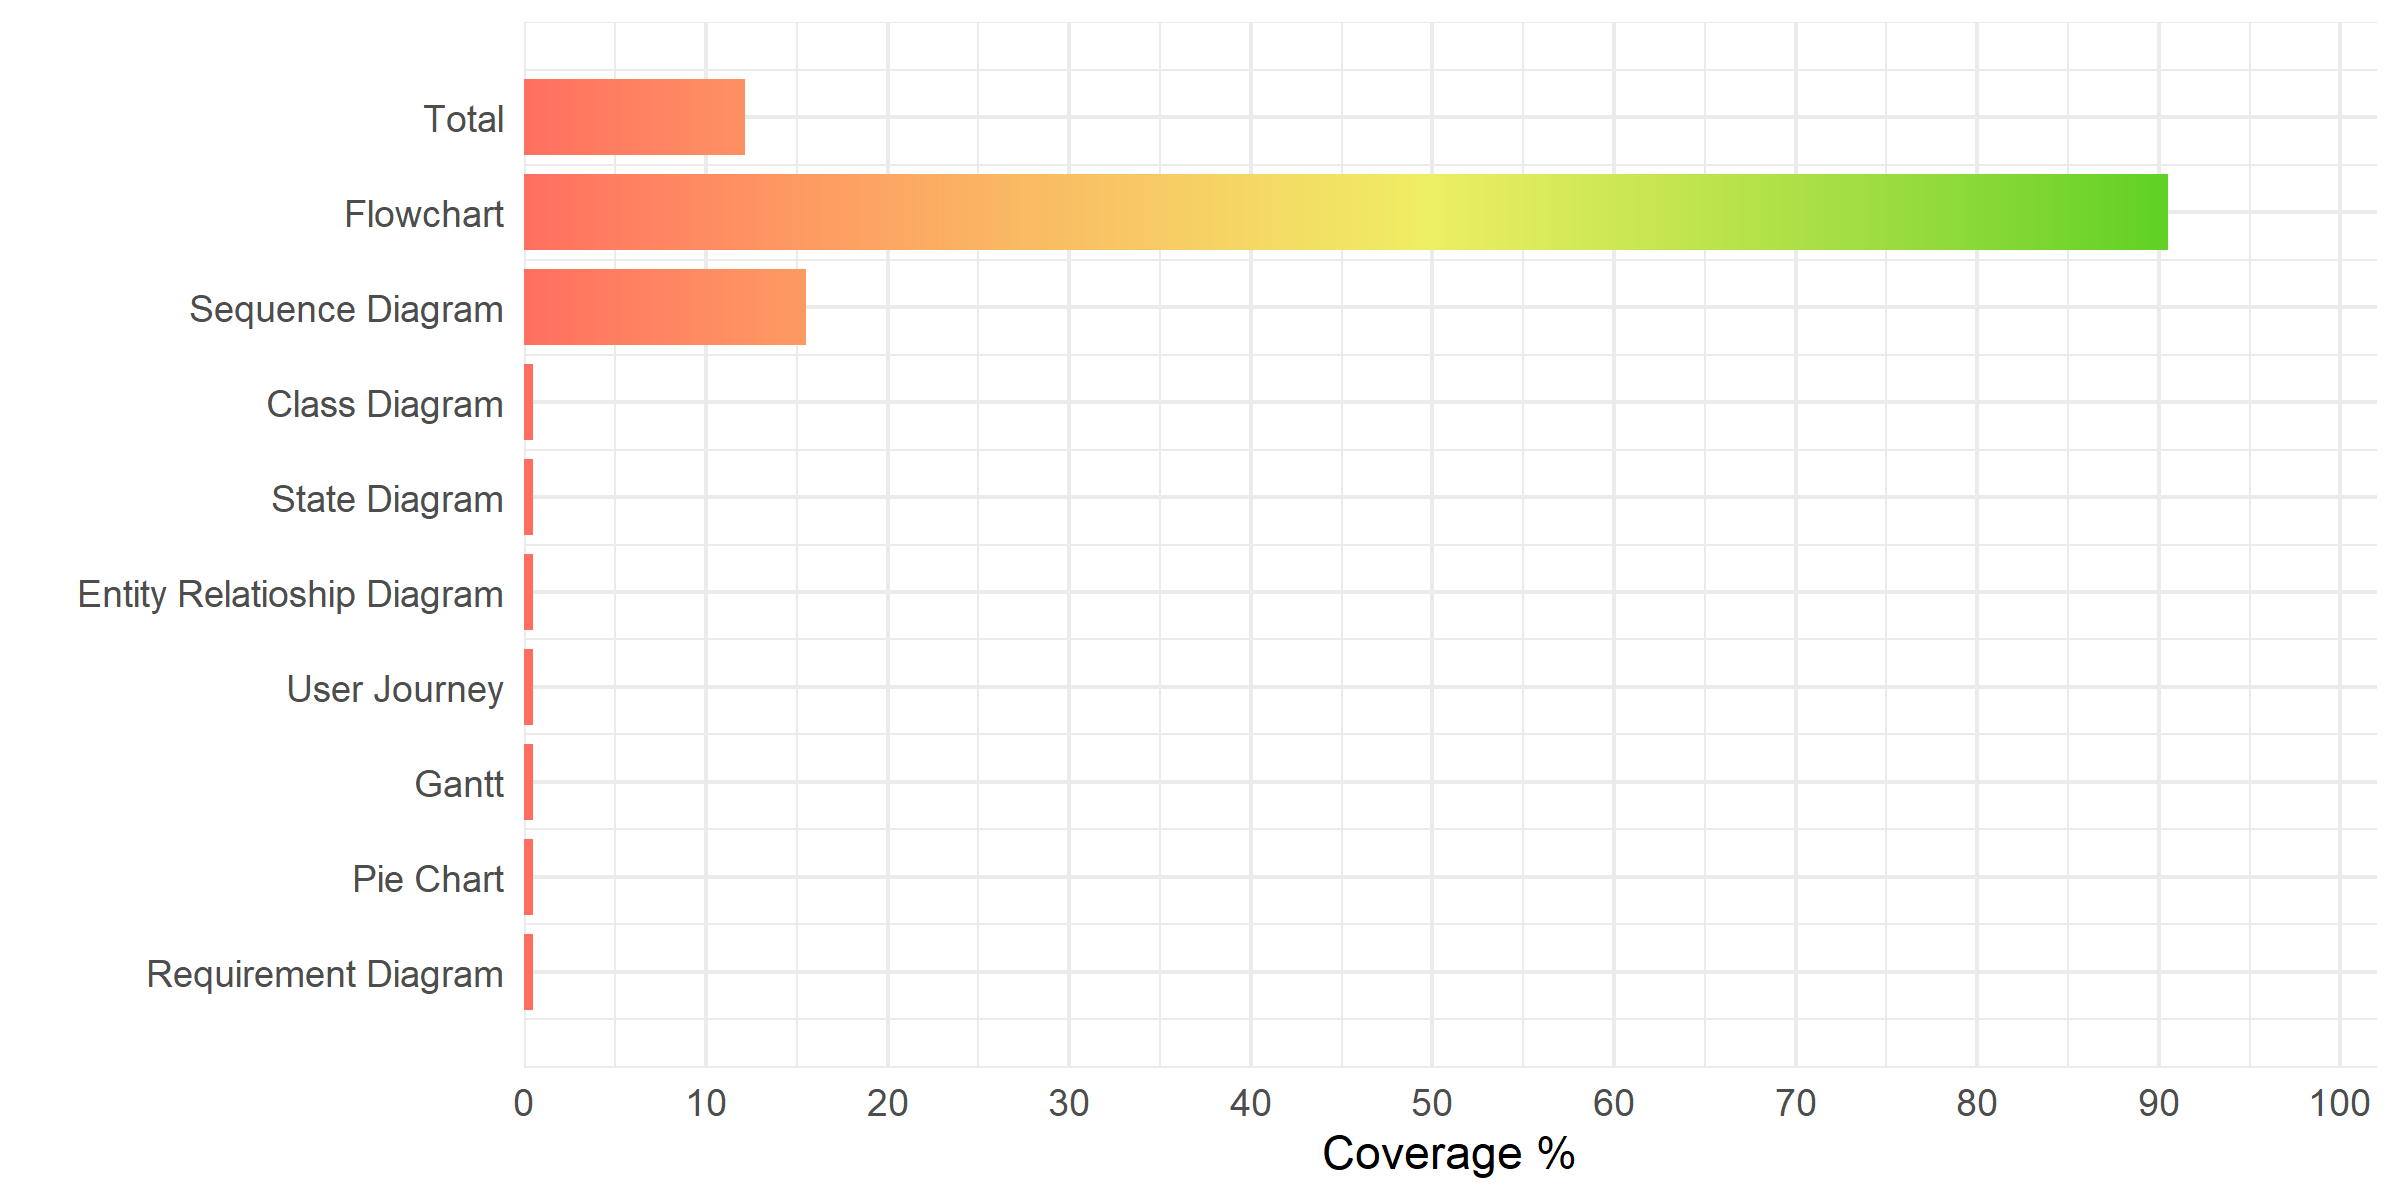
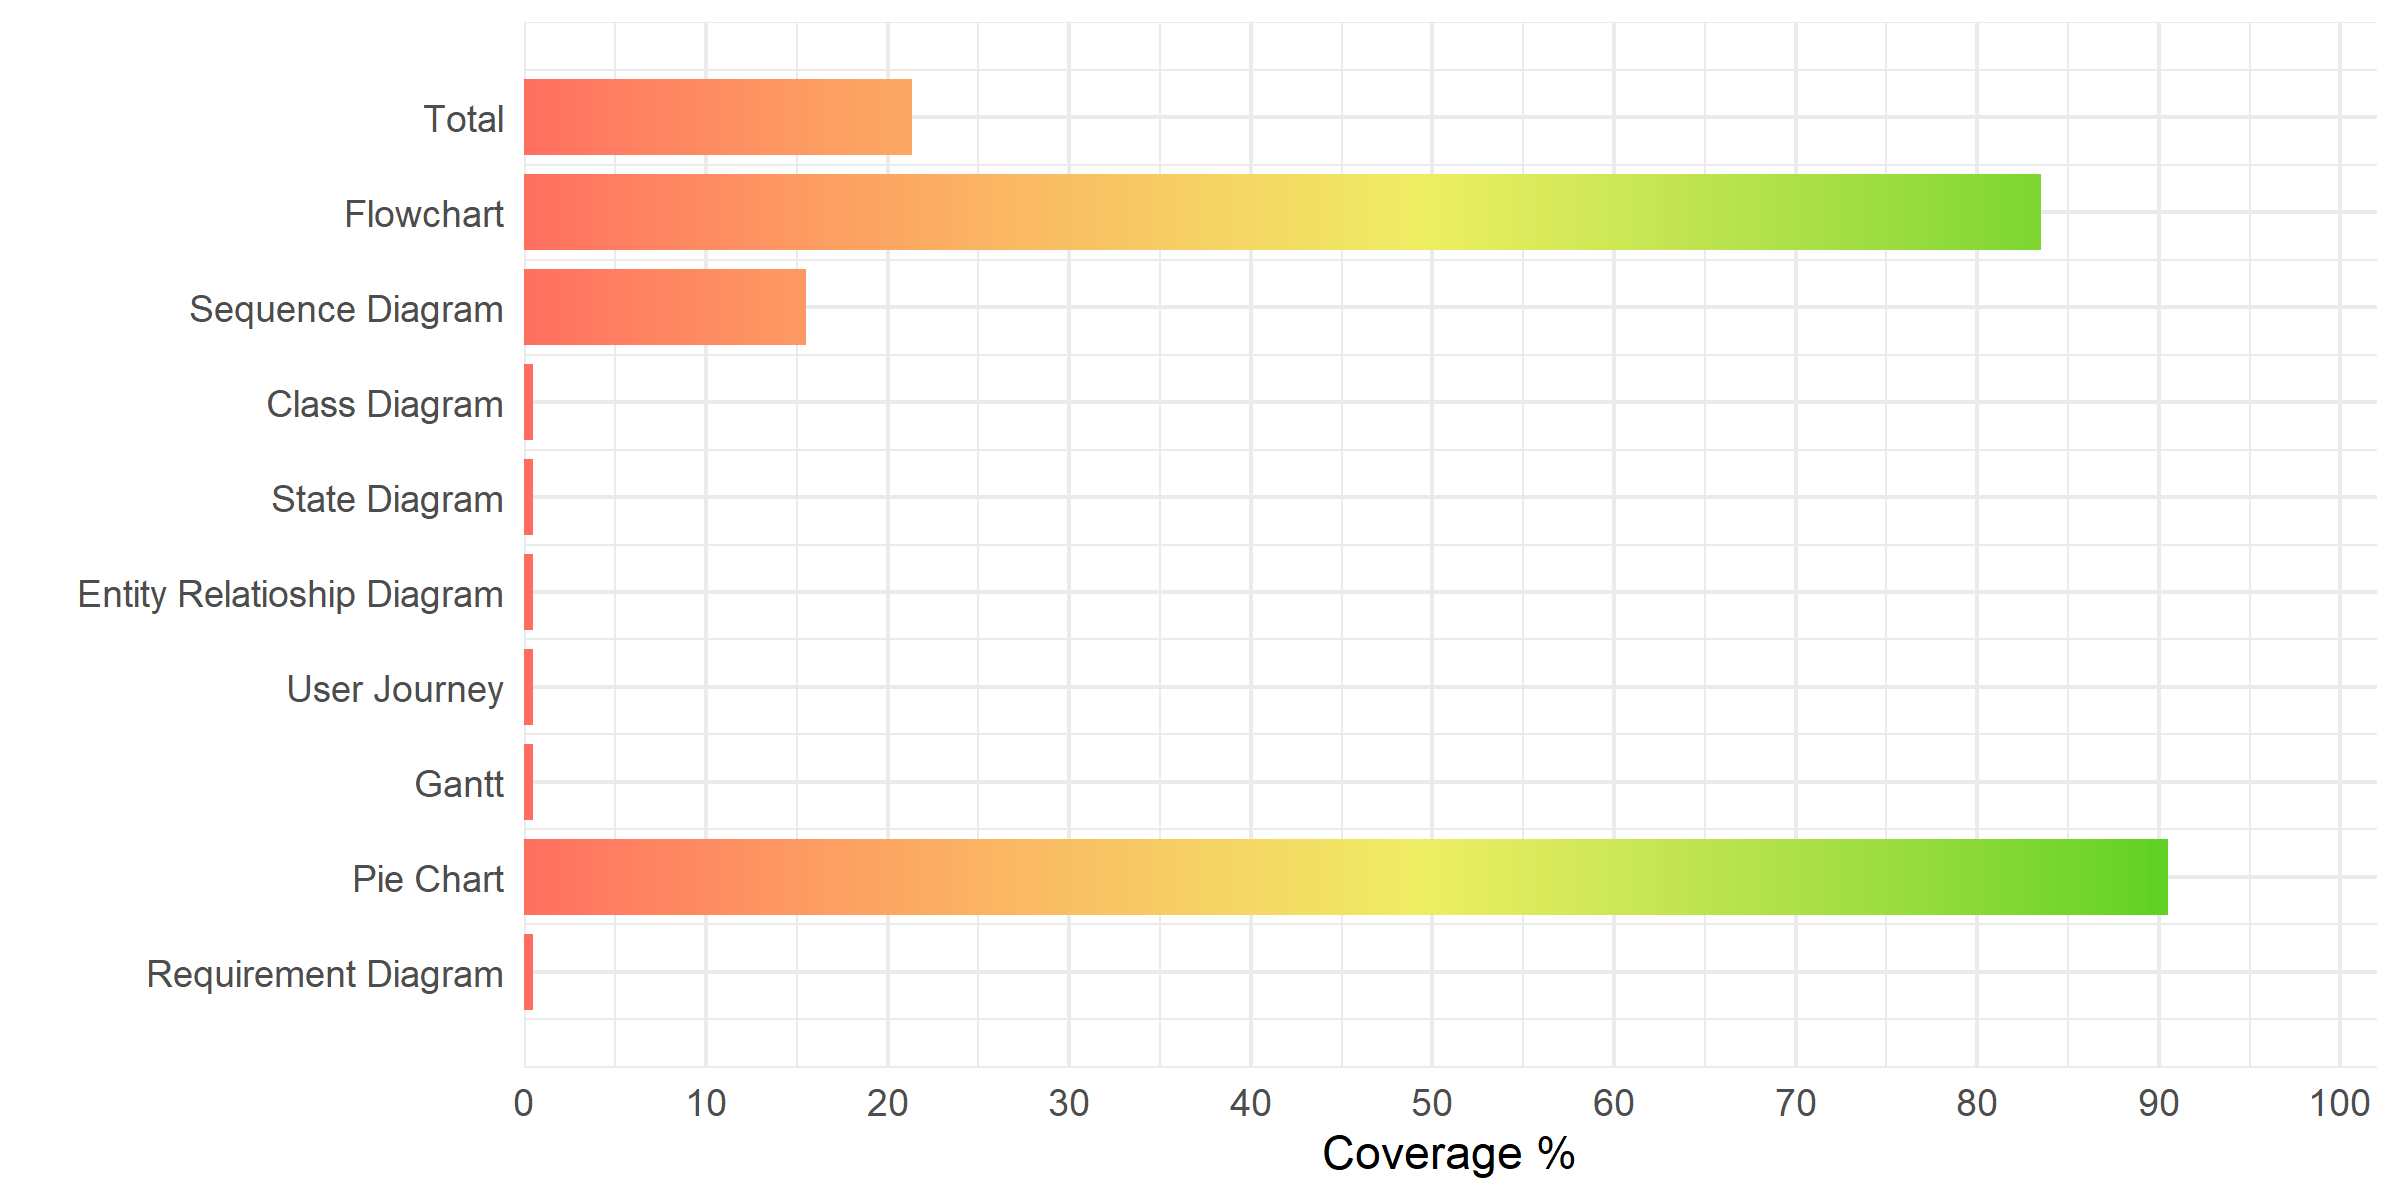
Updated info and graph

Changed region(s): [[0.2188, 0.6783, 0.9062, 0.7708], [0.3125, 0.0617, 0.4062, 0.1542], [0.8438, 0.1233, 0.9062, 0.2158]]

diff --git a/PyMermaid/info.py b/PyMermaid/info.py
@@ -1,4 +1,4 @@
-version="0.1.1"
+version="0.1.2"
 
 author="Quattro"
 myGithub="https://github.com/QuattroMusic"
@@ -23,4 +23,9 @@ Version 0.1.1
     + Added his documentation
     + Reformatted flowchart code
     + Added info file
+
+Version 0.1.2
+    + Added the pie charts
+        > Elements
+        > Title
 """
